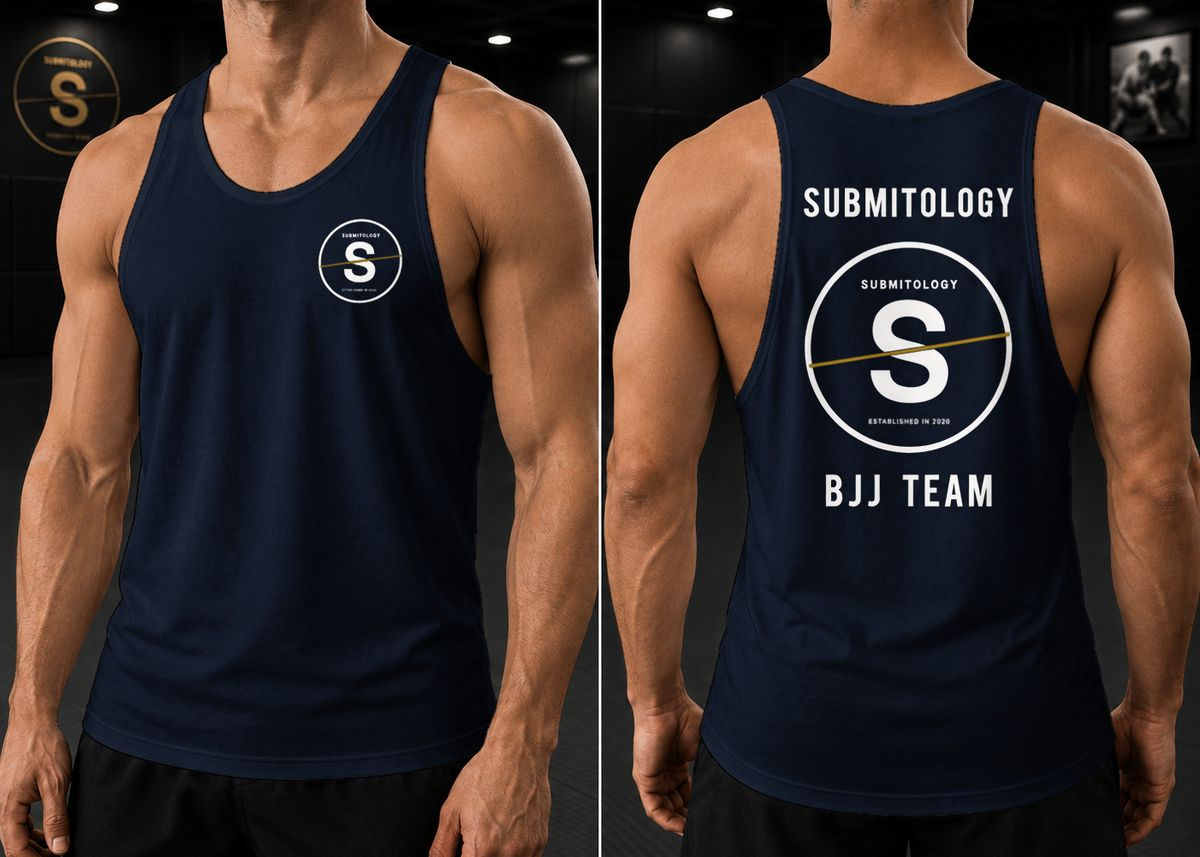
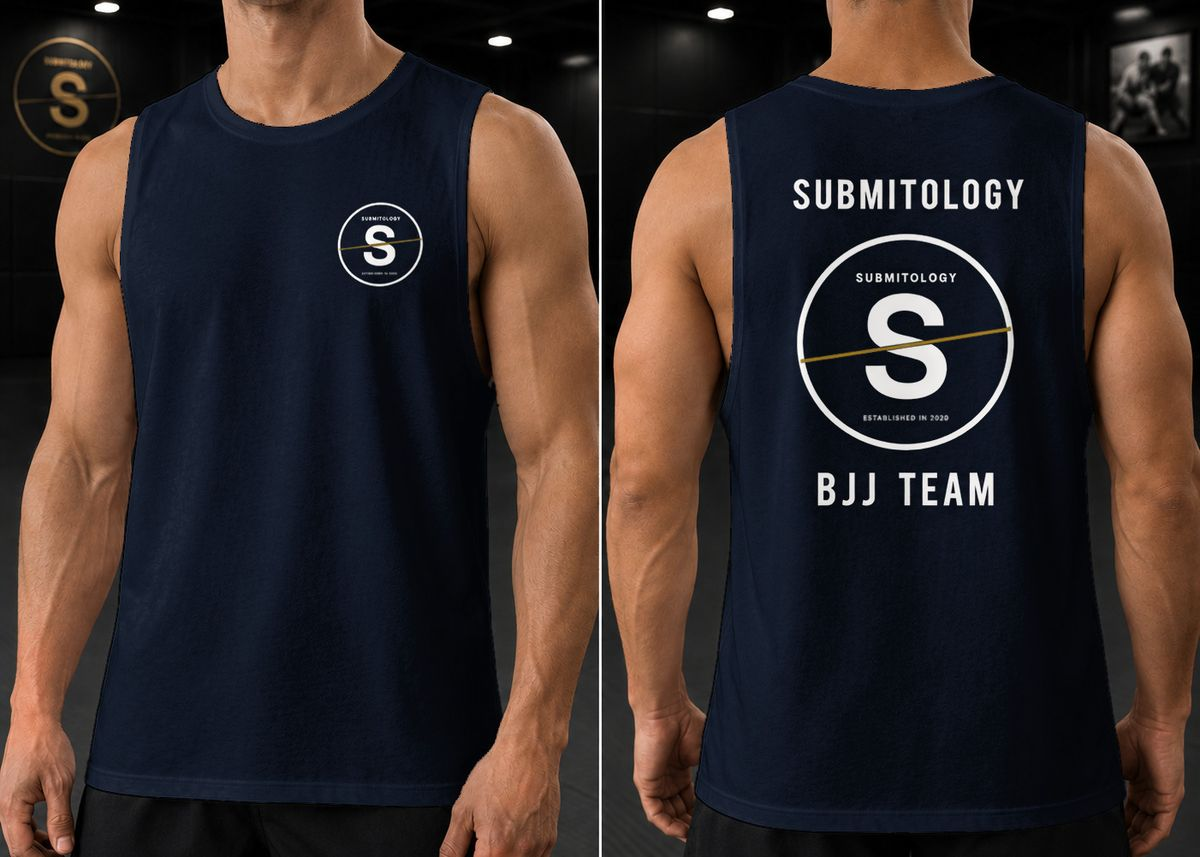
tank top update

diff --git a/src/data/updates.js b/src/data/updates.js
@@ -40,6 +40,17 @@ export function formatDate(iso, lang, dateStyle = "medium") {
 
 export const UPDATES = [
   {
+    id: "2026-10-04",
+    date: "2026-10-04",
+    kind: "range",
+    image: SHOP + "crest-team-tank-white.jpg",
+    title: { en: "A new picture for the Team Crest tank top", fr: "Une nouvelle image pour le débardeur Team Crest", ja: "Team Crestタンクトップの画像を新しくしました", pt: "Uma nova imagem para a regata Team Crest", ro: "O imagine nouă pentru maioul Team Crest" },
+    items: [
+      { en: "The Team Crest tank top has a new picture on the shop page, in all three colours", fr: "Le débardeur Team Crest a une nouvelle image sur la page boutique, dans les trois coloris", ja: "ショップページのTeam Crestタンクトップの画像を、3色すべて新しくしました", pt: "A regata Team Crest tem uma nova imagem na página da loja, nas três cores", ro: "Maioul Team Crest are o imagine nouă pe pagina magazinului, în toate cele trei culori" },
+      { en: "As before, only the white one is its own mockup; the dark blue and jet black pictures are that image recoloured to match the t-shirts", fr: "Comme avant, seul le blanc dispose de sa propre maquette ; les images en bleu foncé et en noir intense sont cette image recolorée pour s'accorder aux t-shirts", ja: "これまでと同じく、専用のモックアップがあるのはホワイトのみです。ダークブルーとジェットブラックの画像は、その画像をTシャツに合わせて色変換したものです", pt: "Como antes, só a branca tem seu próprio mockup; as imagens em azul-escuro e preto são essa imagem recolorida para combinar com as camisetas", ro: "Ca și înainte, doar cel alb are propria machetă; imaginile în albastru închis și negru intens sunt acea imagine recolorată pentru a se potrivi cu tricourile" },
+    ],
+  },
+  {
     id: "2026-10-03-first-rashguards-on-the-mats",
     date: "2026-10-03",
     kind: "mat",

diff --git a/tools/tank-colourways.py b/tools/tank-colourways.py
@@ -9,7 +9,8 @@ Run:  python3 tools/tank-colourways.py
 
 WHY THIS EXISTS
 ───────────────
-The tank top arrived on 2026-10-03 as a single white mockup. The t-shirt it
+The tank top arrived on 2026-10-03 as a single white mockup (replaced by a
+new white mockup on 2026-10-04 — still the only one). The t-shirt it
 sits beside comes in three colourways, and one colour picker drives both
 cards — a tank that only existed in white would have left that picker
 showing a broken image on two of its three settings. So the two missing
@@ -95,19 +96,39 @@ def garment_mask(rgb):
     # which the ceiling lights and the divider rule do not.
     # They sit in the arm's shadow, so they are looked for with a lower
     # brightness floor than the lit cloth — still far above the gym behind.
+    #
+    # Reworked 2026-10-04, when the white mockup was replaced by a new one and
+    # the old rule made a mess of it: a skin highlight on the shoulder is as
+    # pale as shadowed cotton and was dyed too.
+    S, V = hsv[..., 1], hsv[..., 2]
+    # Cloth, lit or shadowed. A bright pixel must be nearly colourless to
+    # count; a bright pixel with any colour in it is skin catching the light.
+    cloth = ((S < 18) & (V > 100)) | ((S < 55) & (V > 100) & (V <= 150))
     near = cv2.dilate(mask, cv2.getStructuringElement(cv2.MORPH_ELLIPSE, (61, 61))).astype(bool)
-    dim = ((hsv[..., 1] < 55) & (hsv[..., 2] > 100) & (mask == 0)).astype(np.uint8)
+    dim = (cloth & (mask == 0)).astype(np.uint8)
     n, labels, stats, _ = cv2.connectedComponentsWithStats(dim, connectivity=8)
+    scraps = np.zeros_like(mask)
     for i in range(1, n):
         if stats[i, cv2.CC_STAT_AREA] < 12:
             continue
         piece = labels == i
         tall_rule = stats[i, cv2.CC_STAT_HEIGHT] > 0.5 * rgb.shape[0]
         if not tall_rule and (piece & near).sum() > 0.6 * piece.sum():
-            # with its dim, slightly warm fringe — anything beside it that
-            # is not skin (skin is far more saturated than shadowed cotton)
-            grown = cv2.dilate(piece.astype(np.uint8), np.ones((7, 7), np.uint8)).astype(bool)
-            mask[grown & (hsv[..., 1] < 85) & (hsv[..., 2] > 50)] = 1
+            mask[piece] = 1
+            if stats[i, cv2.CC_STAT_AREA] >= 40:
+                scraps[piece] = 1
+    # A real scrap is taken with its fringe: the cloth around it that sits
+    # deeper in the arm's shadow, too dark for the rule above. Anything
+    # beside it that is not skin (far more saturated than shadowed cotton)
+    # and not the black of the room behind. Only round scraps — done round
+    # the whole garment, this draws a dark line along every edge.
+    fringe = cv2.dilate(scraps, np.ones((15, 15), np.uint8)).astype(bool) & (mask == 0)
+    mask[fringe & ((S < 18) | ((S < 95) & (V <= 150))) & (V > 60)] = 1
+    # Then the rim: the antialiased edge of the garment, two pixels of it,
+    # taken evenly all the way round.
+    for _ in range(2):
+        ring = cv2.dilate(mask, np.ones((3, 3), np.uint8)).astype(bool) & (mask == 0)
+        mask[ring & cloth] = 1
     mask = cv2.morphologyEx(mask, cv2.MORPH_CLOSE, np.ones((3, 3), np.uint8))
     def fill(m):
         # Fill holes: the print is enclosed by cloth; the neck is not (it runs
@@ -252,6 +273,29 @@ def recolour(src, mask, main, lut, plan):
     m = cv2.dilate(mask.astype(np.uint8), np.ones((3, 3), np.uint8)).astype(np.float32)
     m = cv2.GaussianBlur(m, (0, 0), 0.8)[..., None]
     res = src.astype(np.float32) * (1 - m) + out * m
+
+    # The lit edge against skin needs more than a feather (2026-10-04). Along
+    # a slanted armhole the antialiasing leaves a few pixels that are part
+    # white cloth, part skin; left alone they show as a pale dashed line down
+    # a dark garment. So for the bright pixels just outside the mask, the
+    # cloth's share is read off the saturation — skin is strongly coloured,
+    # white cloth is not — and that share of white is swapped for the dyed
+    # cloth beside it. The skin's own share is left untouched.
+    mk = mask.astype(np.float32)[..., None]
+    wsum = cv2.GaussianBlur(mk, (0, 0), 2.0)
+    wsum = np.maximum(wsum if wsum.ndim == 3 else wsum[..., None], 0.000001)
+    def beside(img):
+        v = cv2.GaussianBlur(img * mk, (0, 0), 2.0)
+        return (v if v.ndim == 3 else v[..., None]) / wsum
+    dyed, undyed = beside(out), beside(src.astype(np.float32))
+    ring = cv2.dilate(mask.astype(np.uint8), np.ones((7, 7), np.uint8)).astype(bool) & ~mask
+    lit = ring & (hsv[..., 2] > 150)
+    share = np.clip(1 - hsv[..., 1].astype(np.float32) / 110.0, 0, 1)[..., None]
+    # A pixel brighter than the cloth beside it is all cloth, whatever the
+    # average says — the binding catches the light where the panel does not.
+    white = np.maximum(undyed, src.astype(np.float32))
+    unmixed = src.astype(np.float32) + share * (dyed - white)
+    res = np.where(lit[..., None], unmixed, res)
     return np.clip(res + 0.5, 0, 255).astype(np.uint8)
 
 
